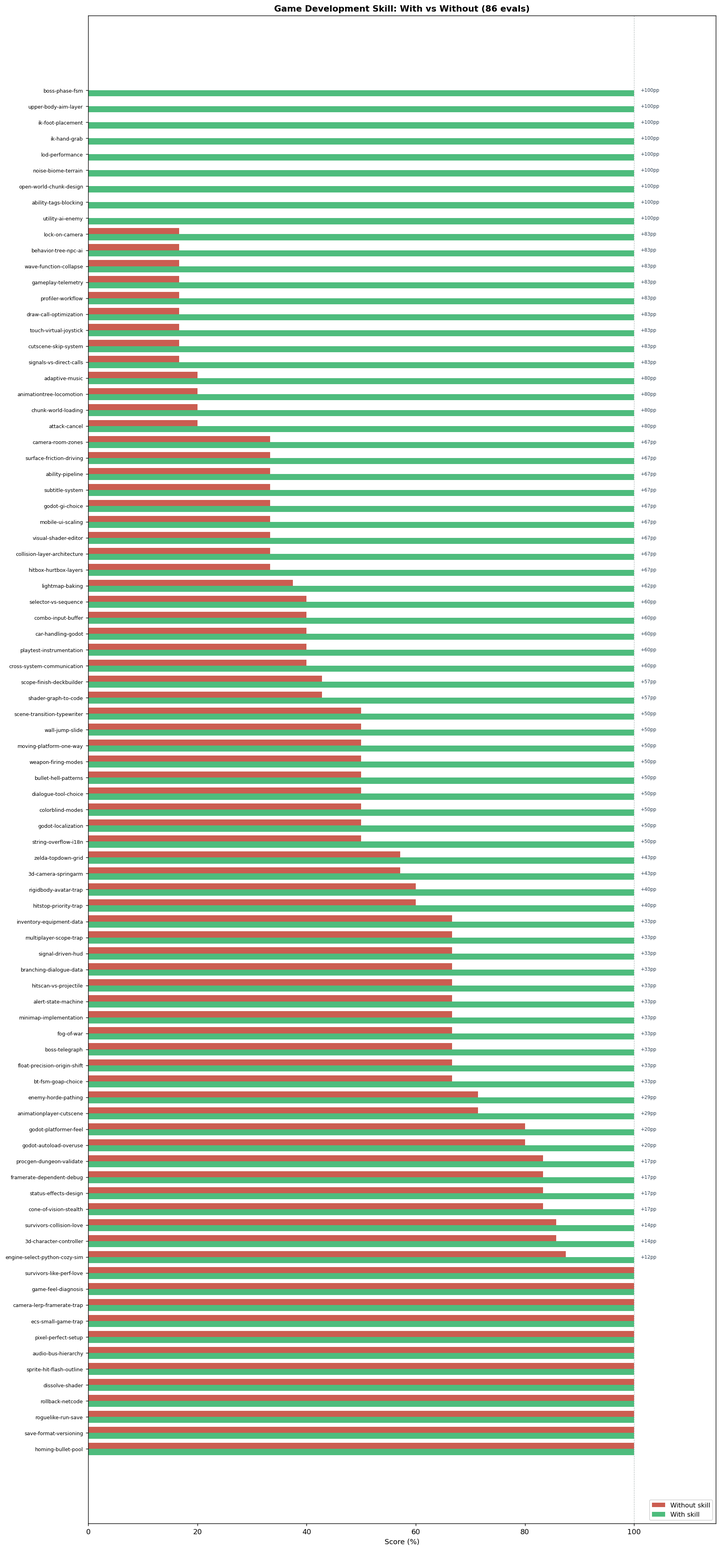
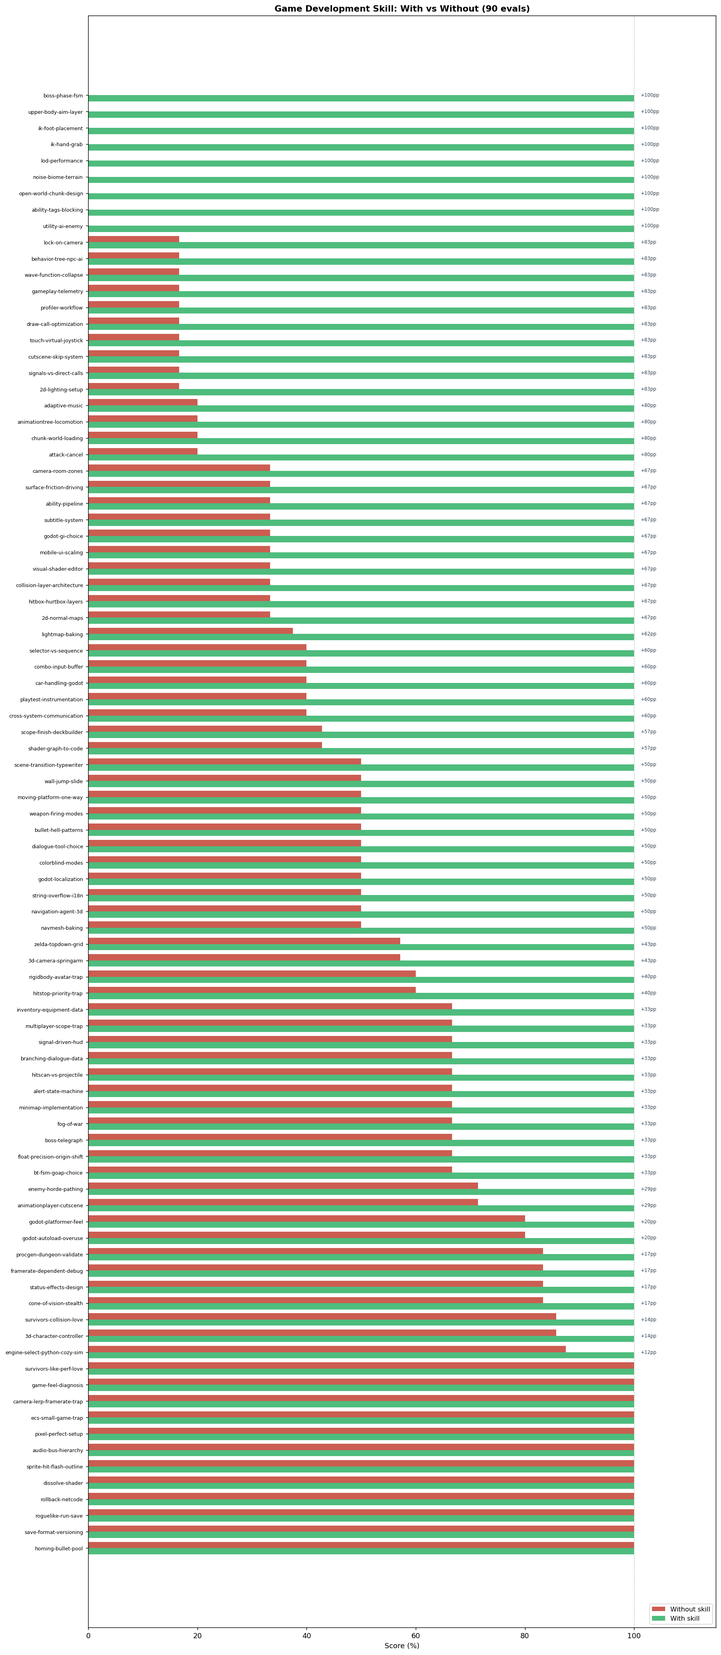
game-development: add 3D navigation + 2D lighting (iter-9)
New reference files: navigation-3d.md, 2d-lighting.md (49 refs total)
New evals: navigation-agent-3d, navmesh-baking, 2d-lighting-setup, 2d-normal-maps (90 evals total)

Final: 539/539 with skill (100%), 278/539 without (51.6%), +48.4pp

Claude-Session: https://claude.ai/code/session_01Ck4njKAvZ82njqeEQouGmp

diff --git a/game-development/README.md b/game-development/README.md
@@ -10,6 +10,8 @@ Also covers **UI/HUD** (signal-driven HUDs with UpdateResource pattern — game 
 
 Also covers **behavior trees** (BTNode/Sequence/Selector/Decorator composites with Blackboard shared state, LimboAI/Beehave addon integration), **animation trees** (AnimationTree with BlendSpace1D/2D for locomotion and aiming, layered upper/lower body animation via AnimationNodeBlendTree + bone masks, call tracks for animation events), **inverse kinematics** (SkeletonIK3D with FABRIK for foot placement and hand grab, RayCast3D ground detection, lerp-based weight blending), **LOD and scene streaming** (GeometryInstance3D LOD distances, MultiMeshInstance3D GPU instancing, async chunk loading with ResourceLoader.load_threaded_request, hysteresis radii to prevent thrashing), **noise-based terrain and WFC** (FastNoiseLite two-noise biome system with elevation + moisture, SurfaceTool mesh generation, texture splatting via vertex color shader, domain warping, Wave Function Collapse adjacency rule propagation), **combo systems** (timestamped input buffer ring array, ComboStepData Resource, cancel windows via AnimationPlayer call tracks, per-frame hitbox control), **open world architecture** (ChunkManager autoload with async load queue, entity persistence, interest management, origin shifting for float precision), **vehicle physics** (VehicleBody3D + VehicleWheel3D, center of mass configuration, torque curve, surface friction via per-wheel RayCast3D), **ability systems** (AbilityData Resource + AbilityComponent pipeline: cost → cast → channel → fire → cooldown; interrupt vs cancel; tag-based gating for Silence/Stun), **GOAP and Utility AI** (Utility AI with normalized scoring and score noise, UtilityAgent tick interval, GOAP world state dict + A\* planner, BT+Utility and BT+GOAP hybrid patterns), **accessibility** (colorblind post-process shader using Daltonize/LMS matrices for protanopia/deuteranopia/tritanopia, SubtitleManager autoload with speaker color coding and sound-effect captions, control remapping), **localization** (TranslationServer CSV workflow, tr() + format() named placeholders — never concatenation, CJK fonts, RTL layout, tr_n() plural forms, string overflow via containers + autowrap), and **analytics and playtesting instrumentation** (TelemetryManager autoload with JSONL storage and buffered flush, TELEMETRY_ENABLED build flag, event-driven death heatmap and path recording, four-feature playtest build: session log + screenshot shortcut + in-game feedback button + build version display).
 
+Also covers **3D navigation** (NavigationRegion3D + NavigationMesh setup with agent_height/agent_radius/cell_size, NavigationAgent3D correct loop: `set_target_position()` + `get_next_path_position()` every frame, RVO avoidance via `set_velocity()` + `velocity_computed` signal to prevent enemy stacking, `navigation_finished` signal, `NavigationObstacle3D` for dynamic obstacles, `NavigationLink3D` for multi-floor buildings, runtime async baking with `bake_navigation_mesh(true)` + `bake_finished`, `is_target_reachable()` fallback) and **2D lighting** (`CanvasModulate` as required ambient node — without it lights are invisible; `PointLight2D` texture/scale/energy/shadow; `LightOccluder2D` + `OccluderPolygon2D` for wall shadows; TileMap per-tile occlusion; `item_cull_mask` to exclude UI layers; `Sprite2D.normal_map` with import type must be Normal Map not Color; `range_height` 64–128 for top-down depth shading; Laigter for pixel art normal generation; `WorldEnvironment` has no effect on 2D).
+
 Also covers **visual shaders and shader graph** (visual shader editor vs code shader decision table — same bytecode, different authoring; node-to-GLSL mapping: FragmentOutput→`void fragment()`, Texture2D→`texture()`, Time→TIME, uniform nodes→uniform declarations; `set_shader_parameter()` works identically for both; save as `.tres` resource for artist workflow; Expression node for inline GLSL within the graph; Convert to Text is one-way; `render_mode unshaded` for emissive/UI shaders), **collision layer architecture** (layer = what a body IS, mask = what it detects; full layer/mask table for a 2D action game with 8 categories; hitbox+hurtbox as separate Area2D nodes; hurtbox pulls damage via `get_damage()` not push; `CollisionShape2D.disabled` for attack window control not `Area2D.monitoring`; i-frames by disabling hurtbox; `set_collision_layer_value()` and bit-shift syntax), and **signal and event architecture** (signals flow upward/sideways, method calls flow downward; scene root wires sibling connections; Inventory→HUD pattern where emitter holds no receiver reference; autoload event bus for cross-scene signals; typed signal parameters; `CONNECT_ONE_SHOT`; autoload for global services; anti-pattern: `get_node()` paths from child to sibling).
 
 Also covers **lighting and global illumination** (LightmapGI vs VoxelGI vs SDFGI decision table by scene type, full 6-step LightmapGI setup including the most-missed step: LightmapGIProbe placement for dynamic objects), **profiling and optimization** (5-step workflow for diagnosing GPU vs CPU bottlenecks via Process Time vs Frame Time, Debug Draw Overdraw, Profiler flame chart sorted by Self time, per-frame allocation patterns and cache fixes, MultiMeshInstance3D draw call reduction), **mobile and touch input** (virtual thumbstick with dynamic origin and dead zone re-mapping, multi-touch finger index tracking, adaptive UI with canvas_items stretch, safe area insets via `DisplayServer.get_display_safe_area()`), and **cutscenes and cinematics** (AnimationPlayer as time sequencer with property/call/audio tracks, camera handoff via `make_current()`, skippable cutscene two-press confirm state machine, `get_tree().paused` + `PROCESS_MODE_ALWAYS` for input capture, shared cleanup path for skip and normal completion).
@@ -26,7 +28,7 @@ Or manually:
 cp -r jakes-skills/game-development ~/.claude/skills/game-development
 ```
 
-Once installed, the skill applies automatically when the user wants to build or improve a game in Godot, Unity, LÖVE, PyGame, Bevy, or Phaser — including character controllers, collision, enemy AI, procedural generation, game feel, engine selection, pixel art rendering, top-down movement, JRPG turn-based combat, 3D character controllers, third-person cameras, scoping a project, RPG systems (status effects, inventory, stat modifiers), audio architecture (bus hierarchy, adaptive music), shaders and visual effects, multiplayer and netcode, save systems and meta-progression, UI/HUD design, advanced platformer mechanics (wall jump, moving platforms, scene transitions), dialogue and narrative systems, weapons and shooting mechanics, boss fight architecture, camera systems (room zones, lock-on), stealth AI (cone of vision, alert FSM), fog of war and minimap, bullet hell patterns, behavior trees (LimboAI, Beehave), animation trees and inverse kinematics, LOD and scene streaming, noise-based terrain and Wave Function Collapse, combo systems, open world architecture and origin shifting, vehicle physics (VehicleBody3D), ability systems (GAS-lite), GOAP and Utility AI, colorblind accessibility modes, subtitles and closed captions, localization and internationalization, analytics and playtest instrumentation, baked global illumination (LightmapGI, VoxelGI, SDFGI), performance profiling (GPU vs CPU, overdraw, draw call reduction), mobile touch input (virtual joystick, safe area, adaptive UI scaling), cutscenes and cinematics (AnimationPlayer sequencing, camera handoff, skippable cutscenes), visual shaders and shader graph (visual editor vs code, node-to-GLSL mapping, artist workflow), collision layer and mask architecture (hitbox/hurtbox layers, i-frames, friendly-fire exclusion), or signal and event architecture (signals vs direct calls vs autoloads, scene-root wiring, event bus).
+Once installed, the skill applies automatically when the user wants to build or improve a game in Godot, Unity, LÖVE, PyGame, Bevy, or Phaser — including character controllers, collision, enemy AI, procedural generation, game feel, engine selection, pixel art rendering, top-down movement, JRPG turn-based combat, 3D character controllers, third-person cameras, scoping a project, RPG systems (status effects, inventory, stat modifiers), audio architecture (bus hierarchy, adaptive music), shaders and visual effects, multiplayer and netcode, save systems and meta-progression, UI/HUD design, advanced platformer mechanics (wall jump, moving platforms, scene transitions), dialogue and narrative systems, weapons and shooting mechanics, boss fight architecture, camera systems (room zones, lock-on), stealth AI (cone of vision, alert FSM), fog of war and minimap, bullet hell patterns, behavior trees (LimboAI, Beehave), animation trees and inverse kinematics, LOD and scene streaming, noise-based terrain and Wave Function Collapse, combo systems, open world architecture and origin shifting, vehicle physics (VehicleBody3D), ability systems (GAS-lite), GOAP and Utility AI, colorblind accessibility modes, subtitles and closed captions, localization and internationalization, analytics and playtest instrumentation, baked global illumination (LightmapGI, VoxelGI, SDFGI), performance profiling (GPU vs CPU, overdraw, draw call reduction), mobile touch input (virtual joystick, safe area, adaptive UI scaling), cutscenes and cinematics (AnimationPlayer sequencing, camera handoff, skippable cutscenes), visual shaders and shader graph (visual editor vs code, node-to-GLSL mapping, artist workflow), collision layer and mask architecture (hitbox/hurtbox layers, i-frames, friendly-fire exclusion), signal and event architecture (signals vs direct calls vs autoloads, scene-root wiring, event bus), 3D navigation (NavigationAgent3D, NavigationMesh baking, RVO avoidance, dynamic obstacles), or 2D lighting (PointLight2D, CanvasModulate, LightOccluder2D, normal maps for depth).
 
 ---
 
@@ -338,12 +340,12 @@ The base model knows game development concepts. The skill gives the agent the *s
 
 ## Benchmark: skill vs. base model
 
-Evaluated across 86 scenarios covering the core game-development failure modes — including pixel art rendering, 3D game development, RPG systems, audio architecture, shaders, multiplayer netcode, save systems, UI/HUD, advanced platformer mechanics, dialogue systems, weapons, boss fights, camera systems, stealth AI, fog of war/minimap, bullet hell patterns, behavior trees, animation trees, inverse kinematics, LOD and scene streaming, noise-based terrain and WFC, combo systems, open world architecture, vehicle physics, ability systems, GOAP and Utility AI, accessibility, localization, analytics, lighting and global illumination, profiling and optimization, mobile touch input, cutscenes and cinematics, visual shaders and shader graph, collision layer architecture, and signal/event architecture. Evals are LLM-graded against specific, objective assertions; executor and grader are separate calls to prevent self-grading inflation.
+Evaluated across 90 scenarios covering the core game-development failure modes — including pixel art rendering, 3D game development, RPG systems, audio architecture, shaders, multiplayer netcode, save systems, UI/HUD, advanced platformer mechanics, dialogue systems, weapons, boss fights, camera systems, stealth AI, fog of war/minimap, bullet hell patterns, behavior trees, animation trees, inverse kinematics, LOD and scene streaming, noise-based terrain and WFC, combo systems, open world architecture, vehicle physics, ability systems, GOAP and Utility AI, accessibility, localization, analytics, lighting and global illumination, profiling and optimization, mobile touch input, cutscenes and cinematics, visual shaders and shader graph, collision layer architecture, signal/event architecture, 3D navigation, and 2D lighting. Evals are LLM-graded against specific, objective assertions; executor and grader are separate calls to prevent self-grading inflation.
 
 ```
-with_skill:    100%   (515/515 expectations)
-without_skill:  52.2%  (269/515 expectations)
-delta:         +47.8pp
+with_skill:    100%   (539/539 expectations)
+without_skill:  51.6%  (278/539 expectations)
+delta:         +48.4pp
 ```
 
 ![Benchmark: skill vs. base model per eval](benchmark_comparison.png)
@@ -438,6 +440,10 @@ delta:         +47.8pp
 | hitbox-hurtbox-layers | 2/6 (33%) | **6/6 (100%)** | +67pp |
 | signals-vs-direct-calls | 1/6 (17%) | **6/6 (100%)** | +83pp |
 | cross-system-communication | 2/5 (40%) | **5/5 (100%)** | +60pp |
+| navigation-agent-3d | 3/6 (50%) | **6/6 (100%)** | +50pp |
+| navmesh-baking | 3/6 (50%) | **6/6 (100%)** | +50pp |
+| 2d-lighting-setup | 1/6 (17%) | **6/6 (100%)** | +83pp |
+| 2d-normal-maps | 2/6 (33%) | **6/6 (100%)** | +67pp |
 
 ### Where the skill makes the biggest difference
 
@@ -487,6 +493,10 @@ delta:         +47.8pp
 | hitbox-hurtbox-layers | 33% base | CollisionShape2D.disabled (not Area2D.monitoring) for hitbox window; hurtbox pulls damage via get_damage() (not pushed); i-frames by disabling hurtbox shape; base model toggles monitoring |
 | cross-system-communication | 40% base | Scene root dispatches to all four systems from single signal; AudioManager as autoload (not signal) for cross-scene audio; explains why get_node() path coupling breaks; base model uses all signals without distinguishing scope |
 | shader-graph-to-code | 43% base | Full node-to-GLSL mapping table; Expression node; one-way Convert to Text; data-flow reading order; base model explains texture() and TIME but omits FragmentOutput mapping and Expression node |
+| 2d-lighting-setup | 17% base | CanvasModulate as the required ambient node (most-missed); item_cull_mask for UI exclusion; TileMap per-tile occlusion; WorldEnvironment irrelevance; base model covers CanvasModulate but misses shadow_filter, cull mask, and TileMap setup |
+| 2d-normal-maps | 33% base | Import type Normal Map fix as primary cause; range_height 64–128 for top-down shading; AnimatedSprite2D per-frame limitation; Laigter; base model names the normal_map property but omits the import fix and range_height |
+| navigation-agent-3d | 50% base | RVO avoidance (avoidance_enabled + set_velocity() + velocity_computed signal); navigation_finished signal; agent_height/radius on NavigationMesh; base model gets set_target_position and get_next_path_position correct but skips avoidance and arrival signal |
+| navmesh-baking | 50% base | geometry_source_geometry_mode for chunk filtering; AABB-restricted baking; is_target_reachable() fallback; avoidance vs rebake distinction; base model knows async bake + bake_finished but omits chunked-world optimizations |
 
 ### Evals where the base model already performs well (regression guards)
 
@@ -599,6 +609,10 @@ delta:         +47.8pp
 | 83 | `hitbox-hurtbox-layers` | Collision: hitbox+hurtbox as Area2D children, hurtbox pulls get_damage(), CollisionShape2D.disabled for window control, i-frames by disabling hurtbox |
 | 84 | `signals-vs-direct-calls` | Signals: upward/sideways rule, scene root wires siblings, typed signals, autoload event bus for cross-scene, direct calls for parent→child |
 | 85 | `cross-system-communication` | Signals: player_died signal, scene root dispatches to 4 systems, AudioManager autoload for cross-scene audio, anti-pattern get_node() path coupling |
+| 86 | `navigation-agent-3d` | Navigation: NavigationRegion3D + NavigationMesh, set_target_position(), get_next_path_position(), RVO avoidance + velocity_computed, navigation_finished, agent_height/radius |
+| 87 | `navmesh-baking` | Navigation: async bake_navigation_mesh(true) + bake_finished, geometry_source_geometry_mode, AABB-restricted baking, avoidance vs rebake, is_target_reachable() |
+| 88 | `2d-lighting-setup` | 2D lighting: CanvasModulate required, PointLight2D full config, LightOccluder2D + TileMap occlusion, item_cull_mask, WorldEnvironment irrelevant for 2D |
+| 89 | `2d-normal-maps` | 2D lighting: normal map import type fix, Sprite2D.normal_map, range_height for top-down depth, Laigter tool, AnimatedSprite2D per-frame limitation |
 
 ---
 

diff --git a/game-development/game-development_SKILL.md b/game-development/game-development_SKILL.md
@@ -1,6 +1,6 @@
 ---
 name: game-development
-description: Procedural knowledge for designing and coding video games — game loops, game feel/juice, entity architecture, collision and physics, character controllers, enemy AI and pathfinding, procedural generation, the prototype-to-ship process, pixel art and retro games, 3D game development, RPG systems, audio architecture, shaders and visual effects, multiplayer netcode, save systems, UI and HUD, advanced platformer mechanics, dialogue and narrative, weapons and shooting, boss fights, camera systems, stealth AI, fog of war, minimap, bullet hell patterns, behavior trees, animation trees and IK, LOD and scene streaming, noise-based terrain and WFC, combo systems, open world architecture, vehicle physics, ability systems, GOAP and utility AI, accessibility, localization, and analytics/telemetry — plus opinionated engine selection across Godot, Unity, Bevy, LÖVE, PyGame, and Phaser. Use this whenever the user wants to build, prototype, or improve a game or game system, including character and platformer controllers, game loops, collision, enemy AI, spawning, pathfinding or flow fields, procedural level and content generation, making a game feel juicier, fixing framerate-dependent movement, choosing an engine, or scoping a game so it ships. Also trigger on Godot, Unity, Bevy, LÖVE/love2d, Pygame, Phaser, GDScript, sprites, tilemaps, ECS, or game jams, or a bare genre like platformer, roguelike, shooter, bullet hell, danmaku, survivors-like, puzzle, top-down, action-RPG, JRPG, farming sim, stealth, metroidvania, 3D platformer, open world, racing game, fighting game, MOBA, or RTS. Trigger on pixel art, pixel-perfect, retro, 8-bit, 16-bit, Stardew-like, Zelda-like, Final Fantasy-like, TileMap, spritesheet, turn-based combat, dialogue system, or wanting to make a pixel art game. Trigger on 3D controller, third-person camera, first-person shooter, SpringArm, NavigationAgent, skeletal animation, AnimationTree, blend tree, BlendSpace, LOD, level of detail, NavMesh, CharacterBody3D, IK, inverse kinematics, SkeletonIK, foot placement, or any 3D game question. Trigger on RPG systems, status effects, inventory, equipment, stat modifiers, crafting, ability system, cooldown, cast time, mana cost, item data. Trigger on audio buses, adaptive music, dynamic music, stem-based music, AudioServer, AudioStreamPlayer, spatial audio, audio pooling. Trigger on shaders, GLSL, ShaderMaterial, hit flash, sprite outline, dissolve effect, palette swap, post-processing. Trigger on multiplayer, online co-op, netcode, rollback netcode, GGPO, client-side prediction, authoritative server, Godot MultiplayerAPI. Trigger on save system, save file, meta-progression, run save, roguelike save, save versioning, persistent upgrades. Trigger on HUD, health bar, dialogue box, typewriter effect, scene transition, pause menu, minimap, or any UI question in a game context. Trigger on wall jump, wall slide, dash, one-way platform, moving platform, ledge grab, combo, attack cancel, frame data, or advanced platformer mechanic. Trigger on Dialogic, Ink, branching dialogue, quest system, narrative design, or NPC dialogue. Trigger on hitscan, projectile, weapon system, reload, firing mode, ammo, or gun mechanic. Trigger on boss fight, boss phase, attack telegraph, boss AI, vulnerability window, or boss design. Trigger on camera zone, lock-on, camera transition, cinematic camera, or split screen. Trigger on stealth, line of sight, cone of vision, detection meter, alert state, guard AI, or patrol. Trigger on fog of war, minimap, explored area, visibility mask, or map reveal. Trigger on bullet pattern, bullet pool, danmaku, circular pattern, spiral pattern, homing bullet, or bullet spawner. Trigger on behavior tree, BT, LimboAI, Beehave, GOAP, utility AI, Selector, Sequence, Blackboard, or NPC decision making. Trigger on noise, FastNoiseLite, terrain generation, biome, WFC, wave function collapse, procedural world, chunk loading, scene streaming, or open world. Trigger on VehicleBody3D, VehicleWheel3D, car physics, suspension, drift, WheelCollider, or vehicle handling. Trigger on accessibility, colorblind mode, subtitles, control remapping, or disability. Trigger on localization, i18n, translation, TranslationServer, tr(), multilanguage, or adding language support. Trigger on telemetry, analytics, playtesting, heatmap, death tracking, session data, or player metrics. Trigger on LightmapGI, VoxelGI, SDFGI, baked lighting, LightmapGIProbe, global illumination, GI, lightmap baking, or light baking. Trigger on profiling, draw calls, fps, frame rate, optimization, overdraw, MultiMeshInstance3D, VisibilityNotifier3D, GPU bound, CPU bound, or performance profiler. Trigger on mobile game, touch input, virtual joystick, thumbstick, swipe, tap, pinch zoom, safe area, notch, canvas_items stretch, or mobile UI scaling. Trigger on cutscene, cinematic, camera handoff, make_current, AnimationPlayer cutscene, call track, skip cutscene, or game cinematics. Trigger on visual shader, shader graph, ShaderGraph, shader editor, GLSL node, shader node, uniform parameter, set_shader_parameter, or artist shader. Trigger on collision layer, collision mask, hitbox, hurtbox, i-frames, invincibility frames, friendly fire, layer architecture, Area2D detection, or collision setup. Trigger on signals vs direct calls, event bus, autoload signal, cross-system communication, CONNECT_ONE_SHOT, node communication, scene decoupling, or signal architecture. The patterns go well beyond default code generation.
+description: Procedural knowledge for designing and coding video games — game loops, game feel/juice, entity architecture, collision and physics, character controllers, enemy AI and pathfinding, procedural generation, the prototype-to-ship process, pixel art and retro games, 3D game development, RPG systems, audio architecture, shaders and visual effects, multiplayer netcode, save systems, UI and HUD, advanced platformer mechanics, dialogue and narrative, weapons and shooting, boss fights, camera systems, stealth AI, fog of war, minimap, bullet hell patterns, behavior trees, animation trees and IK, LOD and scene streaming, noise-based terrain and WFC, combo systems, open world architecture, vehicle physics, ability systems, GOAP and utility AI, accessibility, localization, and analytics/telemetry — plus opinionated engine selection across Godot, Unity, Bevy, LÖVE, PyGame, and Phaser. Use this whenever the user wants to build, prototype, or improve a game or game system, including character and platformer controllers, game loops, collision, enemy AI, spawning, pathfinding or flow fields, procedural level and content generation, making a game feel juicier, fixing framerate-dependent movement, choosing an engine, or scoping a game so it ships. Also trigger on Godot, Unity, Bevy, LÖVE/love2d, Pygame, Phaser, GDScript, sprites, tilemaps, ECS, or game jams, or a bare genre like platformer, roguelike, shooter, bullet hell, danmaku, survivors-like, puzzle, top-down, action-RPG, JRPG, farming sim, stealth, metroidvania, 3D platformer, open world, racing game, fighting game, MOBA, or RTS. Trigger on pixel art, pixel-perfect, retro, 8-bit, 16-bit, Stardew-like, Zelda-like, Final Fantasy-like, TileMap, spritesheet, turn-based combat, dialogue system, or wanting to make a pixel art game. Trigger on 3D controller, third-person camera, first-person shooter, SpringArm, NavigationAgent, skeletal animation, AnimationTree, blend tree, BlendSpace, LOD, level of detail, NavMesh, CharacterBody3D, IK, inverse kinematics, SkeletonIK, foot placement, or any 3D game question. Trigger on RPG systems, status effects, inventory, equipment, stat modifiers, crafting, ability system, cooldown, cast time, mana cost, item data. Trigger on audio buses, adaptive music, dynamic music, stem-based music, AudioServer, AudioStreamPlayer, spatial audio, audio pooling. Trigger on shaders, GLSL, ShaderMaterial, hit flash, sprite outline, dissolve effect, palette swap, post-processing. Trigger on multiplayer, online co-op, netcode, rollback netcode, GGPO, client-side prediction, authoritative server, Godot MultiplayerAPI. Trigger on save system, save file, meta-progression, run save, roguelike save, save versioning, persistent upgrades. Trigger on HUD, health bar, dialogue box, typewriter effect, scene transition, pause menu, minimap, or any UI question in a game context. Trigger on wall jump, wall slide, dash, one-way platform, moving platform, ledge grab, combo, attack cancel, frame data, or advanced platformer mechanic. Trigger on Dialogic, Ink, branching dialogue, quest system, narrative design, or NPC dialogue. Trigger on hitscan, projectile, weapon system, reload, firing mode, ammo, or gun mechanic. Trigger on boss fight, boss phase, attack telegraph, boss AI, vulnerability window, or boss design. Trigger on camera zone, lock-on, camera transition, cinematic camera, or split screen. Trigger on stealth, line of sight, cone of vision, detection meter, alert state, guard AI, or patrol. Trigger on fog of war, minimap, explored area, visibility mask, or map reveal. Trigger on bullet pattern, bullet pool, danmaku, circular pattern, spiral pattern, homing bullet, or bullet spawner. Trigger on behavior tree, BT, LimboAI, Beehave, GOAP, utility AI, Selector, Sequence, Blackboard, or NPC decision making. Trigger on noise, FastNoiseLite, terrain generation, biome, WFC, wave function collapse, procedural world, chunk loading, scene streaming, or open world. Trigger on VehicleBody3D, VehicleWheel3D, car physics, suspension, drift, WheelCollider, or vehicle handling. Trigger on accessibility, colorblind mode, subtitles, control remapping, or disability. Trigger on localization, i18n, translation, TranslationServer, tr(), multilanguage, or adding language support. Trigger on telemetry, analytics, playtesting, heatmap, death tracking, session data, or player metrics. Trigger on NavigationAgent3D, NavigationRegion3D, NavigationMesh, nav mesh, navmesh baking, NavigationObstacle3D, NavigationLink3D, pathfinding 3D, 3D navigation, avoidance, RVO, set_target_position, get_next_path_position, or bake_navigation_mesh. Trigger on Light2D, PointLight2D, DirectionalLight2D, LightOccluder2D, CanvasModulate, 2D lighting, 2D shadows, normal map 2D, Sprite2D normal map, range_height, Laigter, or 2D light setup. Trigger on LightmapGI, VoxelGI, SDFGI, baked lighting, LightmapGIProbe, global illumination, GI, lightmap baking, or light baking. Trigger on profiling, draw calls, fps, frame rate, optimization, overdraw, MultiMeshInstance3D, VisibilityNotifier3D, GPU bound, CPU bound, or performance profiler. Trigger on mobile game, touch input, virtual joystick, thumbstick, swipe, tap, pinch zoom, safe area, notch, canvas_items stretch, or mobile UI scaling. Trigger on cutscene, cinematic, camera handoff, make_current, AnimationPlayer cutscene, call track, skip cutscene, or game cinematics. Trigger on visual shader, shader graph, ShaderGraph, shader editor, GLSL node, shader node, uniform parameter, set_shader_parameter, or artist shader. Trigger on collision layer, collision mask, hitbox, hurtbox, i-frames, invincibility frames, friendly fire, layer architecture, Area2D detection, or collision setup. Trigger on signals vs direct calls, event bus, autoload signal, cross-system communication, CONNECT_ONE_SHOT, node communication, scene decoupling, or signal architecture. The patterns go well beyond default code generation.
 ---
 
 # Game Development
@@ -78,6 +78,8 @@ Read the relevant reference file(s) before writing substantial code. They contai
 | **Visual shaders and shader graph**: visual shader editor vs code shader decision table (same bytecode, different authoring), node-to-GLSL mapping (FragmentOutput→fragment(), Texture2D→texture(), Time→TIME, uniforms, Mix→mix()), set_shader_parameter() works identically for both, save as .tres resource for artist workflow, Expression node for inline GLSL in visual graph, Convert to Text is one-way, render_mode unshaded for emissive/UI shaders | `references/visual-shaders.md` |
 | **Collision layers and masks**: layer (what a body IS) vs mask (what it detects), layer naming in Project Settings, full layer/mask table for 2D action game (world/player/enemies/player_attack/enemy_attack/pickups/player_bullet/enemy_bullet), hitbox+hurtbox as separate Area2D child nodes, hurtbox pulls damage from hitbox via get_damage(), CollisionShape2D.disabled for hitbox window control (not Area2D.monitoring), i-frames by disabling hurtbox, set_collision_layer_value() / bit-shift syntax | `references/collision-layers.md` |
 | **Signals and cross-system events**: signals flow upward/sideways, method calls flow downward, scene root wires connections between sibling systems, Inventory→HUD pattern (emitter knows nothing about receivers), autoload event bus for cross-scene signals, typed signal parameters for edit-time type checking, CONNECT_ONE_SHOT, when direct calls are correct (parent controlling own child), autoload for global services (audio, save), anti-pattern: get_node() paths from child to sibling | `references/signals-and-events.md` |
+| **3D Navigation**: NavigationRegion3D + NavigationMesh setup (cell_size, agent_height, agent_radius, edge_max_slope), NavigationAgent3D correct update loop (set_target_position not navigate_to, get_next_path_position every frame), RVO avoidance via avoidance_enabled + set_velocity() + velocity_computed signal, navigation_finished signal, repath threshold pattern, NavigationObstacle3D for dynamic obstacles, NavigationLink3D for multi-floor, runtime async baking with bake_navigation_mesh(true) + bake_finished, AABB-restricted baking for chunked worlds, is_target_reachable() fallback | `references/navigation-3d.md` |
+| **2D lighting**: CanvasModulate as required ambient node (most-missed — without it lights are invisible), PointLight2D (texture, texture_scale, energy, color, shadow_enabled, shadow_filter PCF5), DirectionalLight2D for sun/moon, LightOccluder2D + OccluderPolygon2D for shadow casting, TileMap per-tile occlusion, item_cull_mask to exclude UI layers, subtractive BLEND_MODE_SUB for darkness zones, normal maps (Sprite2D.normal_map, import type must be Normal Map not Color, range_height 64–128 for top-down), Laigter for pixel art normal generation, AnimatedSprite2D per-frame normal limitation, WorldEnvironment has no effect on 2D | `references/2d-lighting.md` |
 
 ## Opinionated defaults (the one-screen version)
 
